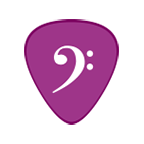
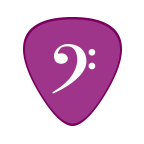
style: Minor styling updates
- Improve the graphics of the apple touch icon
- Update the post list quote styling
- Make the logo inline, so that not the whole header clicks to the home page

Changed region(s): [[0.1389, 0.1111, 0.8611, 0.8889], [0.3611, 0.3056, 0.6667, 0.6667]]

diff --git a/app/scripts/modules/menu.js b/app/scripts/modules/menu.js
@@ -46,9 +46,9 @@ define(
         if(_this.els._$parent.hasClass('is-open')) {
           _this.els.$menuOverlay.one('click', _onMenuButtonClick);
           
-          TweenMax.to(_this.els.$header, 0.6, {y: 0, ease: Strong.easeInOut});
+          TweenMax.to(_this.els.$header, 0.4, {y: 0, ease: Strong.easeInOut});
 
-          TweenMax.to(_this.els.$menuOverlay, 0.5, {opacity: 1, ease: Strong.easeOut, delay: 0.2,
+          TweenMax.to(_this.els.$menuOverlay, 0.3, {opacity: 1, ease: Strong.easeOut, delay: 0.4,
             onStart: function() {
               _this.els.$menuOverlay.css({
                 'visibility': 'visible',

diff --git a/app/styles/modules/_post.scss b/app/styles/modules/_post.scss
@@ -19,12 +19,16 @@
     padding: 0 0 0 6px;
     margin: 0;
     border-left: 6px solid $colour-tab-border;
+      
+    ul {
+      padding-left: 24px;
+    }
   }
 
   .highlight {
     pre {
       background: $colour-tab-background;
-      padding: 12px 12px 12px 24px;
+      padding: 12px 12px 12px 12px;
       border-left: 6px solid $colour-tab-border;
       color: $colour-font-tab;
     }

diff --git a/app/styles/_modules.scss b/app/styles/_modules.scss
@@ -26,6 +26,7 @@
 .branding_logo {
   width: 232px;
   height: 62px;
+  display: inline-block;
   @include retina-image("../images/inline/os-bass-tabs-logo", 232px 62px);
   overflow: hidden;
   text-indent: -999999px;
